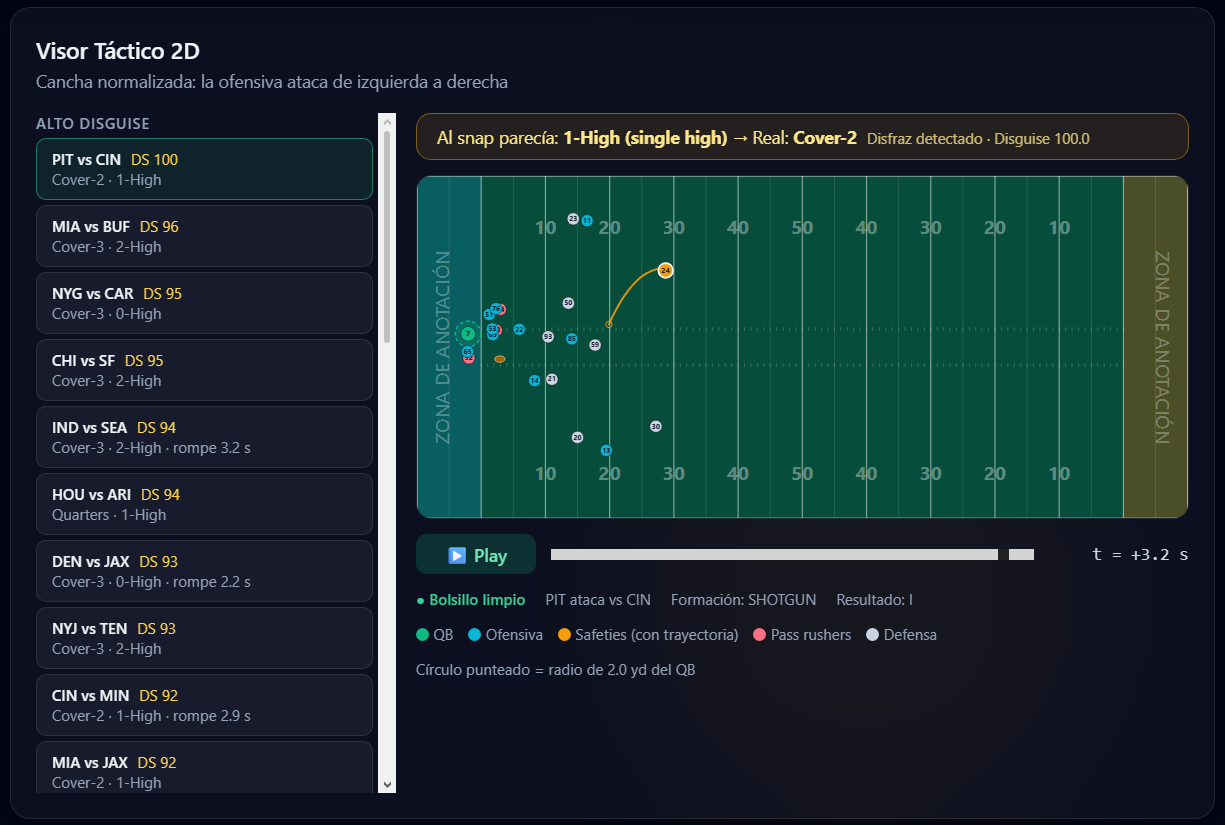
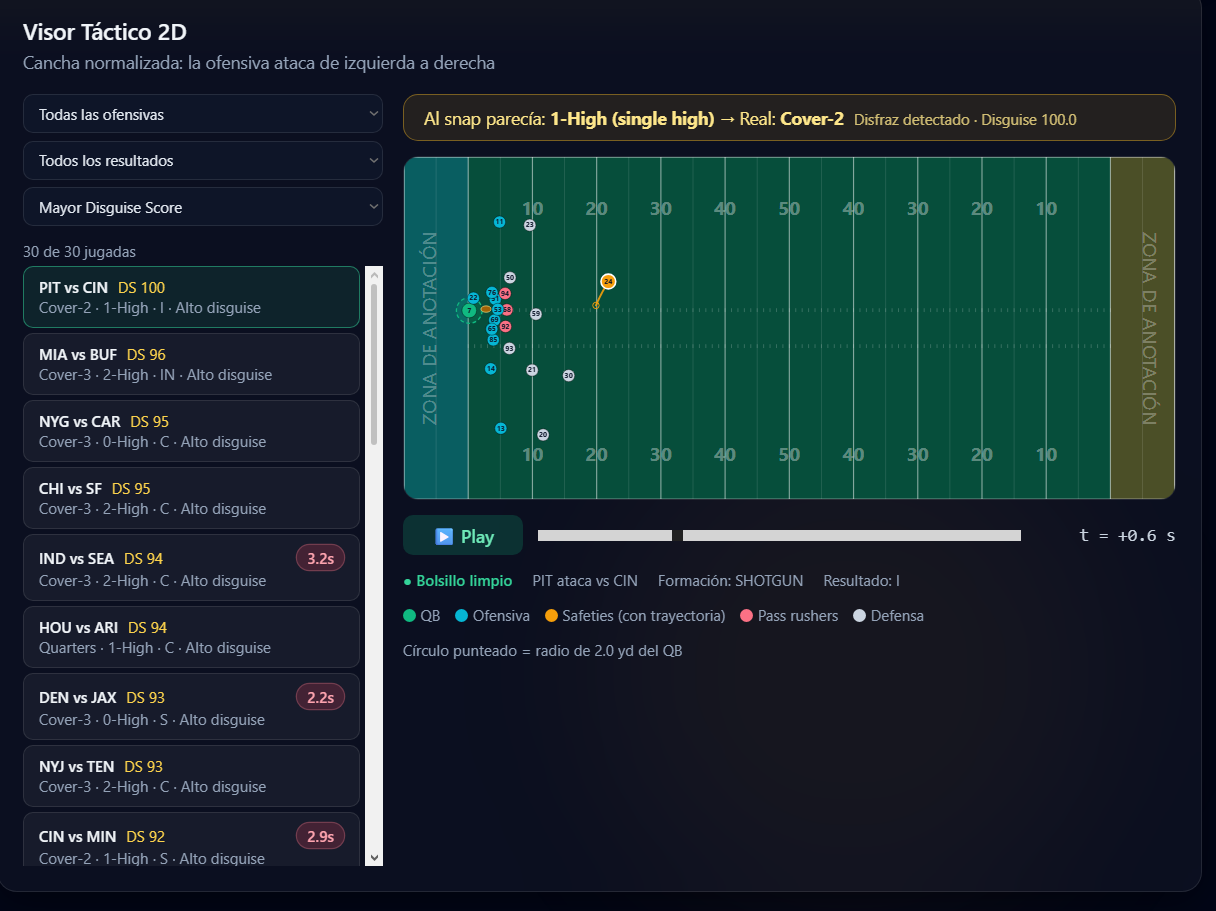
docs: agrega capturas de pantalla al README y reporte de entrega

diff --git a/.hackathon/ENTREGA.md b/.hackathon/ENTREGA.md
@@ -1,14 +1,11 @@
 # Entrega: hackathon-unam
 
-- Generado: 2026-11-20 12:36 (windows x64)
+- Generado: 2026-11-20 12:52 (windows x64)
 - Stack verificado: Python 3.12.12, Node 22.23.1, uv 0.11.19
 - Dashboard compilado: sí (dashboard/dist)
 - Backend: se importa sin errores
-- Archivos incluidos: 194 (830.4 MB sin comprimir)
+- Archivos incluidos: 197 (831.0 MB sin comprimir)
 - Desviaciones del stack: ninguna
-
-## Avisos
-- README.md no tiene ninguna imagen; los jueces piden un visual bien formateado
 
 ## Cómo ejecutarlo
 Ver INSTALACION.md del evento. Backend: `uvicorn backend.main:app`. Dashboard: `cd dashboard && npm ci && npm run dev`.
